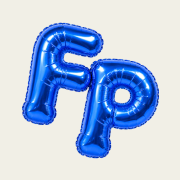
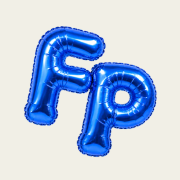
Turn the FP balloon with real side views
The stacked-layer turn showed stripes side-on. Codex generated the same
balloon from 0, 30, 60 and 90 degrees; the balloon now steps through those
views every 30 degrees (mirrored for the far half of the turn) with a small
real 3D tilt in between, all in CSS on one 4-frame sprite. The favicon and
front view come from the same sheet.

Changed region(s): [[0.1111, 0.1111, 0.8889, 0.8889]]

diff --git a/app/components/balloon-logo.css b/app/components/balloon-logo.css
@@ -65,38 +65,95 @@
   perspective: 700px;
 }
 
-/* Turns around the vertical axis; the layers sit through its thickness. */
-.balloon-spin {
-  /* Nine layers over about an eighth of the width: an inflated balloon. */
-  --depth: calc(var(--balloon-w) * 0.016);
+/* Turning around the vertical axis. .balloon-frame steps through the four
+   photographed angles every 30 degrees (mirrored for the far half of the
+   turn); .balloon-turn tilts each view from -15 to +15 degrees in real 3D in
+   the meantime, so the turn reads as continuous. Both run on the same clock:
+   one step of the sprite is exactly one tilt cycle. */
+.balloon-turn {
+  --turn: 12s;
   position: relative;
   display: block;
   transform-style: preserve-3d;
-  animation: balloon-spin 11s linear infinite;
+  animation: balloon-tilt calc(var(--turn) / 12) linear infinite;
 }
 
-@keyframes balloon-spin {
+.balloon-frame {
+  display: block;
+  width: 100%;
+  aspect-ratio: 1;
+  background: url("/hero-assets/fp-balloon-turn.webp") 0 0 / 400% 100% no-repeat;
+  filter: drop-shadow(0 10px 14px rgb(10 30 110 / 0.22));
+  animation: balloon-frames var(--turn) step-end infinite;
+}
+
+@keyframes balloon-tilt {
+  from {
+    transform: rotateY(-15deg);
+  }
+
   to {
-    transform: rotateY(360deg);
+    transform: rotateY(15deg);
   }
 }
 
-.balloon-art {
-  position: absolute;
-  inset: 0;
-  display: block;
-  width: 100%;
-  height: auto;
-  filter: brightness(var(--shade));
-  pointer-events: none;
-  transform: translateZ(calc(var(--layer) * var(--depth))) scale(var(--layer-scale));
-  -webkit-user-drag: none;
-}
+/* 0, 30, 60, 90, then back through the views mirrored (120 to 270), then the
+   near side again (300, 330). */
+@keyframes balloon-frames {
+  0% {
+    background-position: 0% 0;
+    transform: none;
+  }
 
-/* The middle layer (the seam) sets the box size and carries the soft shadow. */
-.balloon-art:nth-child(5) {
-  position: relative;
-  filter: drop-shadow(0 10px 14px rgb(10 30 110 / 0.22));
+  8.333% {
+    background-position: 33.333% 0;
+  }
+
+  16.667% {
+    background-position: 66.667% 0;
+  }
+
+  25% {
+    background-position: 100% 0;
+  }
+
+  33.333% {
+    background-position: 66.667% 0;
+    transform: scaleX(-1);
+  }
+
+  41.667% {
+    background-position: 33.333% 0;
+  }
+
+  50% {
+    background-position: 0% 0;
+  }
+
+  58.333% {
+    background-position: 33.333% 0;
+  }
+
+  66.667% {
+    background-position: 66.667% 0;
+  }
+
+  75% {
+    background-position: 100% 0;
+  }
+
+  83.333% {
+    background-position: 66.667% 0;
+    transform: none;
+  }
+
+  91.667% {
+    background-position: 33.333% 0;
+  }
+
+  100% {
+    background-position: 0% 0;
+  }
 }
 
 /* The string hangs from the bottom of the F. */
@@ -165,7 +222,8 @@
 
   .balloon-logo.is-ready .balloon-float,
   .balloon-string,
-  .balloon-spin {
+  .balloon-turn,
+  .balloon-frame {
     animation: none;
   }
 }

diff --git a/app/components/BalloonLogo.tsx b/app/components/BalloonLogo.tsx
@@ -8,7 +8,7 @@ import {
   useTransform,
   useVelocity,
 } from "motion/react";
-import { useRef, type CSSProperties, type MouseEvent as ReactMouseEvent } from "react";
+import { useRef, type MouseEvent as ReactMouseEvent } from "react";
 
 import "./balloon-logo.css";
 
@@ -23,25 +23,12 @@ import "./balloon-logo.css";
 const LEAN = 0.018;
 const MAX_LEAN = 24;
 
-/**
- * The balloon turns around its vertical axis. A photo has no depth, so it is
- * stacked as copies spread through the balloon's thickness, shaped like a
- * pillow: the middle copy is the full outline (the seam) and darker, the
- * faces in front and behind are a little smaller. Turned sideways it still
- * looks inflated, and from behind it shows its mirrored back like a real
- * balloon.
+/*
+ * The balloon turns around its vertical axis. There is no 3D model: Codex
+ * generated the same balloon from four angles (0, 30, 60 and 90 degrees), and
+ * the CSS steps through those views every 30 degrees, mirrored for the far
+ * half of the turn, with a small real 3D tilt in between (balloon-logo.css).
  */
-const LAYERS = [-4, -3, -2, -1, 0, 1, 2, 3, 4];
-const OUTER = 4;
-
-function layerStyle(layer: number) {
-  const out = Math.abs(layer) / OUTER;
-  return {
-    "--layer": layer,
-    "--layer-scale": 1 - out * out * 0.07,
-    "--shade": 0.7 + 0.3 * out ** 1.5,
-  } as CSSProperties;
-}
 
 export default function BalloonLogo({ ready }: { ready: boolean }) {
   const reduceMotion = useReducedMotion();
@@ -92,19 +79,8 @@ export default function BalloonLogo({ ready }: { ready: boolean }) {
           <svg className="balloon-string" viewBox="0 0 20 64" preserveAspectRatio="none">
             <path d="M10 0 C 4 14, 16 26, 10 38 S 5 54, 11 64" />
           </svg>
-          <span className="balloon-spin">
-            {LAYERS.map((depth) => (
-              <img
-                key={depth}
-                className="balloon-art"
-                src="/hero-assets/fp-balloon.webp"
-                alt=""
-                width={520}
-                height={520}
-                draggable={false}
-                style={layerStyle(depth)}
-              />
-            ))}
+          <span className="balloon-turn">
+            <span className="balloon-frame" />
           </span>
         </motion.span>
       </motion.a>
